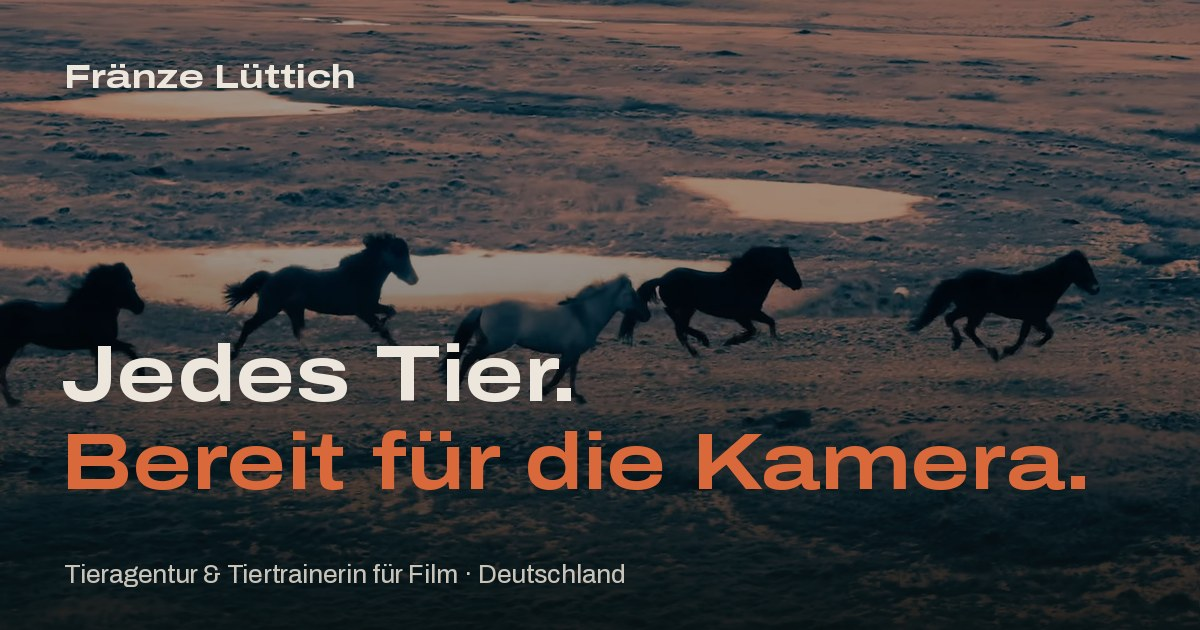
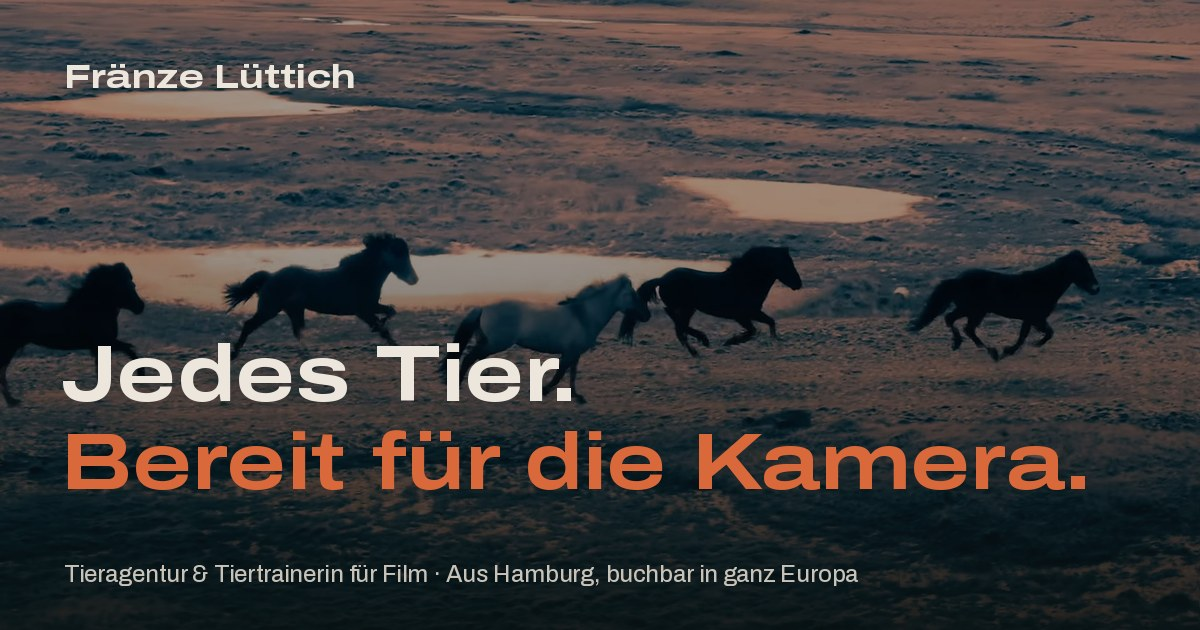
Formular: 'Andere' mit eigenem Feld; Vorschaubilder mit Hamburg
Claude-Session: https://claude.ai/code/session_01HNqvrTM4jwsu7CVxfaVnyL

Changed region(s): [[0.0617, 0.8746, 0.7092, 0.9349]]

diff --git a/src/template.html b/src/template.html
@@ -206,6 +206,7 @@ a{color:inherit}
 form{display:grid;grid-template-columns:repeat(2,minmax(0,1fr));gap:22px 16px;align-content:start}
 label{display:flex;flex-direction:column;gap:8px;font-size:14px;font-weight:500;color:#cbc4b9}
 label.full{grid-column:1/-1}
+label[hidden]{display:none}
 input,select,textarea{font:inherit;font-size:16px;color:var(--ink);background:rgba(236,230,220,.07);border:1px solid rgba(236,230,220,.24);border-radius:10px;padding:13px 16px;min-height:52px;width:100%;transition:border-color .2s,background .2s;-webkit-appearance:none;appearance:none}
 input::placeholder,textarea::placeholder{color:rgba(236,230,220,.36);opacity:1}
 input:hover,select:hover,textarea:hover{border-color:rgba(236,230,220,.45)}
@@ -589,9 +590,10 @@ footer a:hover{color:var(--ink)}
         </div>
         <form id="req" novalidate>
           <label for="f-type"><span>{{contact.production}}</span>
-            <select id="f-type"><option>{{work.feature_film}}</option><option>{{work.series}}</option><option>{{work.commercial}}</option><option>{{contact.photo_shoot}}</option><option>{{work.music_video}}</option></select>
+            <select id="f-type"><option>{{work.feature_film}}</option><option>{{work.series}}</option><option>{{work.commercial}}</option><option>{{contact.photo_shoot}}</option><option>{{work.music_video}}</option><option value="other">{{contact.other}}</option></select>
           </label>
           <label for="f-title"><span>{{contact.title_or_client}}</span><input id="f-title" type="text" autocomplete="organization" placeholder="{{contact.title_ph}}"></label>
+          <label class="full" for="f-other" id="otherWrap" hidden><span>{{contact.other_label}}</span><input id="f-other" type="text" placeholder="{{contact.other_ph}}"></label>
           <label for="f-dates"><span>{{contact.shoot_dates}}</span><input id="f-dates" type="text" placeholder="{{footer.e_g_12_to}}"></label>
           <label for="f-loc"><span>{{contact.location}}</span><input id="f-loc" type="text" placeholder="{{footer.city_or_studio}}"></label>
           <label class="full" for="f-scene"><span>{{contact.what_does_the_animal}}</span><textarea id="f-scene" rows="4" placeholder="{{contact.scene_ph}}"></textarea></label>
@@ -736,6 +738,10 @@ footer a:hover{color:var(--ink)}
     });
   });
   function sel(el){ var r = document.createRange(); r.selectNodeContents(el); var s = window.getSelection(); s.removeAllRanges(); s.addRange(r); }
+
+  // form: 'other' production type opens its own field
+  var ftype = document.getElementById('f-type'), otherWrap = document.getElementById('otherWrap');
+  ftype.addEventListener('change', function(){ var on = ftype.value === 'other'; otherWrap.hidden = !on; if (on) document.getElementById('f-other').focus(); });
 
   // form (draft)
   document.getElementById('req').addEventListener('submit', function(e){

diff --git a/index.html b/index.html
@@ -207,6 +207,7 @@ a{color:inherit}
 form{display:grid;grid-template-columns:repeat(2,minmax(0,1fr));gap:22px 16px;align-content:start}
 label{display:flex;flex-direction:column;gap:8px;font-size:14px;font-weight:500;color:#cbc4b9}
 label.full{grid-column:1/-1}
+label[hidden]{display:none}
 input,select,textarea{font:inherit;font-size:16px;color:var(--ink);background:rgba(236,230,220,.07);border:1px solid rgba(236,230,220,.24);border-radius:10px;padding:13px 16px;min-height:52px;width:100%;transition:border-color .2s,background .2s;-webkit-appearance:none;appearance:none}
 input::placeholder,textarea::placeholder{color:rgba(236,230,220,.36);opacity:1}
 input:hover,select:hover,textarea:hover{border-color:rgba(236,230,220,.45)}
@@ -590,9 +591,10 @@ footer a:hover{color:var(--ink)}
         </div>
         <form id="req" novalidate>
           <label for="f-type"><span>Production</span>
-            <select id="f-type"><option>Feature film</option><option>Series</option><option>Commercial</option><option>Photo shoot</option><option>Music video</option></select>
+            <select id="f-type"><option>Feature film</option><option>Series</option><option>Commercial</option><option>Photo shoot</option><option>Music video</option><option value="other">Other</option></select>
           </label>
           <label for="f-title"><span>Title or client</span><input id="f-title" type="text" autocomplete="organization" placeholder="Film title, brand or agency"></label>
+          <label class="full" for="f-other" id="otherWrap" hidden><span>What kind of project?</span><input id="f-other" type="text" placeholder="e.g. theatre, event, social media, VFX"></label>
           <label for="f-dates"><span>Shoot dates</span><input id="f-dates" type="text" placeholder="e.g. 12 to 16 May"></label>
           <label for="f-loc"><span>Location</span><input id="f-loc" type="text" placeholder="e.g. Berlin, studio or on location"></label>
           <label class="full" for="f-scene"><span>What does the animal need to do?</span><textarea id="f-scene" rows="4" placeholder="e.g. A fox crosses the street at night and looks into the camera."></textarea></label>
@@ -737,6 +739,10 @@ footer a:hover{color:var(--ink)}
     });
   });
   function sel(el){ var r = document.createRange(); r.selectNodeContents(el); var s = window.getSelection(); s.removeAllRanges(); s.addRange(r); }
+
+  // form: 'other' production type opens its own field
+  var ftype = document.getElementById('f-type'), otherWrap = document.getElementById('otherWrap');
+  ftype.addEventListener('change', function(){ var on = ftype.value === 'other'; otherWrap.hidden = !on; if (on) document.getElementById('f-other').focus(); });
 
   // form (draft)
   document.getElementById('req').addEventListener('submit', function(e){

diff --git a/de/index.html b/de/index.html
@@ -207,6 +207,7 @@ a{color:inherit}
 form{display:grid;grid-template-columns:repeat(2,minmax(0,1fr));gap:22px 16px;align-content:start}
 label{display:flex;flex-direction:column;gap:8px;font-size:14px;font-weight:500;color:#cbc4b9}
 label.full{grid-column:1/-1}
+label[hidden]{display:none}
 input,select,textarea{font:inherit;font-size:16px;color:var(--ink);background:rgba(236,230,220,.07);border:1px solid rgba(236,230,220,.24);border-radius:10px;padding:13px 16px;min-height:52px;width:100%;transition:border-color .2s,background .2s;-webkit-appearance:none;appearance:none}
 input::placeholder,textarea::placeholder{color:rgba(236,230,220,.36);opacity:1}
 input:hover,select:hover,textarea:hover{border-color:rgba(236,230,220,.45)}
@@ -590,9 +591,10 @@ footer a:hover{color:var(--ink)}
         </div>
         <form id="req" novalidate>
           <label for="f-type"><span>Produktion</span>
-            <select id="f-type"><option>Kinofilm</option><option>Serie</option><option>Werbung</option><option>Fotoshooting</option><option>Musikvideo</option></select>
+            <select id="f-type"><option>Kinofilm</option><option>Serie</option><option>Werbung</option><option>Fotoshooting</option><option>Musikvideo</option><option value="other">Andere</option></select>
           </label>
           <label for="f-title"><span>Titel oder Auftraggeber*in</span><input id="f-title" type="text" autocomplete="organization" placeholder="Filmtitel, Marke oder Agentur"></label>
+          <label class="full" for="f-other" id="otherWrap" hidden><span>Was für ein Projekt?</span><input id="f-other" type="text" placeholder="z. B. Theater, Event, Social Media, VFX"></label>
           <label for="f-dates"><span>Drehtage</span><input id="f-dates" type="text" placeholder="z. B. 12. bis 16. Mai"></label>
           <label for="f-loc"><span>Drehort</span><input id="f-loc" type="text" placeholder="z. B. Berlin, Studio oder Außendreh"></label>
           <label class="full" for="f-scene"><span>Was soll das Tier tun?</span><textarea id="f-scene" rows="4" placeholder="z. B. Ein Fuchs läuft nachts über die Straße und schaut in die Kamera."></textarea></label>
@@ -737,6 +739,10 @@ footer a:hover{color:var(--ink)}
     });
   });
   function sel(el){ var r = document.createRange(); r.selectNodeContents(el); var s = window.getSelection(); s.removeAllRanges(); s.addRange(r); }
+
+  // form: 'other' production type opens its own field
+  var ftype = document.getElementById('f-type'), otherWrap = document.getElementById('otherWrap');
+  ftype.addEventListener('change', function(){ var on = ftype.value === 'other'; otherWrap.hidden = !on; if (on) document.getElementById('f-other').focus(); });
 
   // form (draft)
   document.getElementById('req').addEventListener('submit', function(e){
